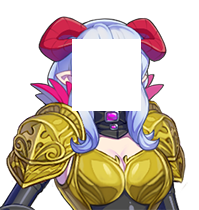
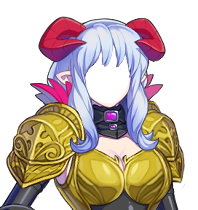
Fix borked busts (#5)
* Fix various display issues

Dheria: fix tunic colour for variants
Mithyn: furl outstretched wing
Nalili: fix face-bust alignment issues
Wendis: fix extra shoulder on greyT variant
Xestris: fix ear positions in busts and inconsistent collar in one faceset variant

* Grynyth why are you like this

* Qum the Grey

* Megail the Gold

* Chosen the Glitched

diff --git a/Bust Config.rb b/Bust Config.rb
@@ -10,8 +10,8 @@ Busty::FACE_TO_BUST = {
   "Aka emo2" => "Aka2",
   "Alanon emo" => "Alonon",
   "darksorceress" => "Riala",
-  "Dheria emo1" => "Dheria1",
-  "Dheria emo2" => "Dheria2",
+  "Dheria emo1" => "Dheria2", # grey tunic, red eyes
+  "Dheria emo2" => "Dheria1", # blue tunic, green eyes
   "face002b" => "Simon1",
   "face002b2" => "Simon1",
   "face002b dark" => "Simon1",
@@ -33,9 +33,6 @@ Busty::FACE_TO_BUST = {
   "Z Andra emo" => nil, # To only allow face 4, see below
   "Z Andra emoN" => nil, # No bust for no robe Andra
   "Z Orcent" => "Orcent1",
-  # Unsupported supermodes
-  "Megail emo2g" => nil,
-  "Qum D'umpe emo2" => nil,
 }
 
 Busty::SUBSET_TO_BUST = [
@@ -141,6 +138,17 @@ Busty::SUBSET_TO_BUST = [
     character_name: "Xestris2",
     face_name: "Xestris emo2",
     face_indexes: [0],
+  },
+  # Xestris ear positions
+  {
+    character_name: "Xestris-ear-up",
+    face_name: "Xestris emo2",
+    face_indexes: [1],
+  },
+  {
+    character_name: "Xestris-ear-down",
+    face_name: "Xestris emo2",
+    face_indexes: [2, 5, 6],
   },
   # Yarra boobs
   {
@@ -289,15 +297,16 @@ Busty::BASE_CONFIG.merge!({
     face_offset_x: 47,
     face_offset_y: 30,
   },
-  "Dheria1" => {
+  "Dheria1" => { # blue tunic, green eyes
     bust_scale: 0.75,
     face_offset_x: 68,
     face_offset_y: 34,
   },
-  "Dheria2" => {
+  "Dheria2" => { # grey tunic, red eyes
     bust_scale: 0.75,
     face_offset_x: 68,
     face_offset_y: 34,
+    face_border_width: [0, 0, 18, 0], # clothing colour mismatch
   },
   "Dio" => { # Lustlord
     bust_scale: 0.75,
@@ -388,7 +397,7 @@ Busty::BASE_CONFIG.merge!({
     bust_scale: 0.76,
     face_offset_x: 64,
     face_offset_y: 24,
-    face_border_width: 1,
+    hide_original_face: true,
   },
   "Herin" => {
     bust_scale: 0.75,
@@ -487,7 +496,7 @@ Busty::BASE_CONFIG.merge!({
   "Megail" => {
     bust_scale: 0.80,
     face_offset_x: 60,
-    face_offset_y: 39,
+    face_offset_y: 40,
     face_z: -1,
   },
   "Melymyn" => {
@@ -552,6 +561,7 @@ Busty::BASE_CONFIG.merge!({
     bust_scale: 0.75,
     face_offset_x: 62,
     face_offset_y: 40,
+    face_border_width: [0, 0, 0, 12],
   },
   "Riala" => {
     bust_scale: 0.75,
@@ -684,6 +694,7 @@ Busty::BASE_CONFIG.merge!({
     face_offset_x: 47,
     face_offset_y: 38,
     face_z: -1,
+    face_border_width: [0, 0, 21, 0],
   },
  "Wynn" => {
     bust_scale: 0.79,
@@ -920,6 +931,9 @@ Busty::MESSAGE_CONFIG.merge!({
   "Mestan" => {
     bust_offset_y: -5,
   },
+  "Mithyn" => {
+    bust_offset_x: -145,
+  },
   "Nabith" => {
     bust_offset_x: -25,
   },
@@ -1011,6 +1025,11 @@ Busty::MESSAGE_CONFIG.merge!({
     bust: "HilstaraKnight",
   },
   {
+    original: "Megail",
+    faces: ["Megail emo2g"],
+    bust: "MegailGold",
+  },
+  {
     original: "Nalili",
     faces: ["Nalili emo3", "Nalili emo4"],
     bust: "Nalili2",
@@ -1024,6 +1043,16 @@ Busty::MESSAGE_CONFIG.merge!({
     original: "Tanurak",
     faces: ["Tanurak emoX"],
     bust: "TanurakX",
+  },
+  {
+    original: "MainActor1-3",
+    faces: ["MainActor1-3fsx"], # Corrupted Chosen
+    bust: "MainActor1-3x",
+  },
+  {
+    original: "Qum D'umpe",
+    faces: ["Qum D'umpe emo2"],
+    bust: "Qum D'umpe2",
   },
   {
     original: "Trin",
@@ -1042,15 +1071,6 @@ Busty::MESSAGE_CONFIG.merge!({
     Busty::FACE_TO_BUST[face] = cf[:bust]
   end
 end
-
-# Nalili is being difficult and needs to be extra adjusted manually.
-# Decarabia
-Busty::BASE_CONFIG["Nalili2"] = {
-  bust_scale: 0.73,
-  face_offset_x: 56,
-  face_offset_y: 28,
-  face_z: -1,
-}
 
 # Rachnera
 # Dealing with Yarra's boobs
@@ -1076,6 +1096,21 @@ Busty::MESSAGE_CONFIG["Ulrissa2"] = Busty::MESSAGE_CONFIG["Ulrissa"]
 # Dark Xestris
 Busty::BASE_CONFIG["Xestris2"] = Busty::BASE_CONFIG["Xestris"]
 Busty::MESSAGE_CONFIG["Xestris2"] = Busty::MESSAGE_CONFIG["Xestris"]
+# Xestris ear positions
+Busty::BASE_CONFIG["Xestris-ear-up"] = Busty::BASE_CONFIG["Xestris"]
+Busty::MESSAGE_CONFIG["Xestris-ear-up"] = Busty::MESSAGE_CONFIG["Xestris"]
+Busty::BASE_CONFIG["Xestris-ear-down"] = Busty::BASE_CONFIG["Xestris"]
+Busty::MESSAGE_CONFIG["Xestris-ear-down"] = Busty::MESSAGE_CONFIG["Xestris"]
+# Grynyth needs separate images for every face because her semi-transparent
+# elements and moving eyebrow thingies make overlays a total nightmare
+(1..2).each do |i|
+  (0..7).each do |j|
+    name = "Grynyth#{i}-#{j}"
+    Busty::SUBSET_TO_BUST.insert(-1, { character_name: name, face_name: "Grynyth emo#{i > 1 ? i : ''}", face_indexes: [j] })
+    Busty::BASE_CONFIG[name] = Busty::BASE_CONFIG["Grynyth"]
+    Busty::MESSAGE_CONFIG[name] = Busty::MESSAGE_CONFIG["Grynyth"]
+  end
+end
 # Ivala
 # Explicit config so we can easily duplicate it
 Busty::MESSAGE_CONFIG.merge!({
